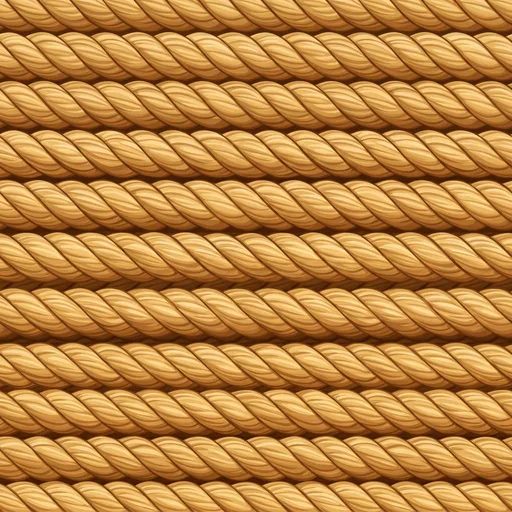
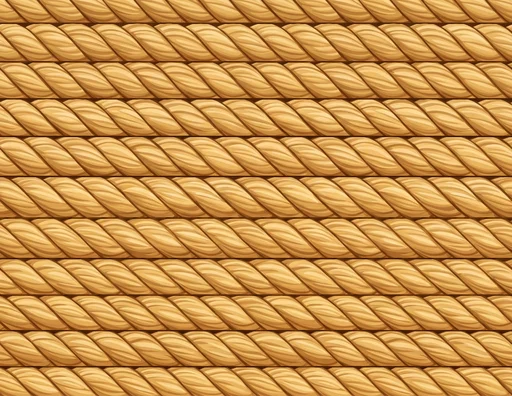
شدّ الحبل: حجم الحبال السابق مع تقليل الفراغات بينها
Claude-Session: https://claude.ai/code/session_01JNQVXeydSXVJRbASu4obRr

diff --git a/games/tug/index.html b/games/tug/index.html
@@ -296,11 +296,11 @@ button:focus-visible,select:focus-visible{outline:3px solid var(--sun);outline-o
 @media (prefers-reduced-motion:reduce){ #tug{transition:none} }
 
 /* أزرار الإجابة: الحبل المجدول */
-.stone:where(:not(#again)){background:radial-gradient(70% 90% at 50% 50%,rgba(70,40,10,.5),rgba(70,40,10,.12) 75%),url(../art/btn-rope.webp) center/56px repeat;border:4px solid #5e3a12;border-radius:20px;color:#fff8ea;text-shadow:0 2px 0 #3a2208,0 0 10px rgba(50,25,5,1),0 0 4px rgba(50,25,5,1);
+.stone:where(:not(#again)){background:radial-gradient(70% 90% at 50% 50%,rgba(70,40,10,.5),rgba(70,40,10,.12) 75%),url(../art/btn-rope.webp) center/129px repeat;border:4px solid #5e3a12;border-radius:20px;color:#fff8ea;text-shadow:0 2px 0 #3a2208,0 0 10px rgba(50,25,5,1),0 0 4px rgba(50,25,5,1);
   box-shadow:inset 0 0 0 2px #e8c27a,inset 0 -5px 0 rgba(0,0,0,.18),0 5px 0 #45290b,0 10px 16px rgba(0,0,0,.32)}
-.stone:where(:not(#again)).ok{background:linear-gradient(180deg,rgba(150,240,120,.6),rgba(60,170,60,.65)),url(../art/btn-rope.webp) center/56px repeat;border-color:#2f6b1c;color:#fff;
+.stone:where(:not(#again)).ok{background:linear-gradient(180deg,rgba(150,240,120,.6),rgba(60,170,60,.65)),url(../art/btn-rope.webp) center/129px repeat;border-color:#2f6b1c;color:#fff;
   text-shadow:0 2px 0 #1d4a10,0 0 8px rgba(20,60,10,.7);box-shadow:0 0 18px rgba(170,255,140,.8),0 5px 0 #24521a,inset 0 2px 0 rgba(255,255,255,.4)}
-.stone:where(:not(#again)).no{background:linear-gradient(180deg,rgba(240,120,110,.6),rgba(190,60,50,.65)),url(../art/btn-rope.webp) center/56px repeat;border-color:#7a1f16;color:#fff;
+.stone:where(:not(#again)).no{background:linear-gradient(180deg,rgba(240,120,110,.6),rgba(190,60,50,.65)),url(../art/btn-rope.webp) center/129px repeat;border-color:#7a1f16;color:#fff;
   text-shadow:0 2px 0 #5a120c;box-shadow:0 5px 0 #5a160f,0 10px 16px rgba(0,0,0,.35)}
 
 /* داخل صفحة ألعاب الكتاب: الرأس والرجوع والتلميح في الصفحة الأم */
